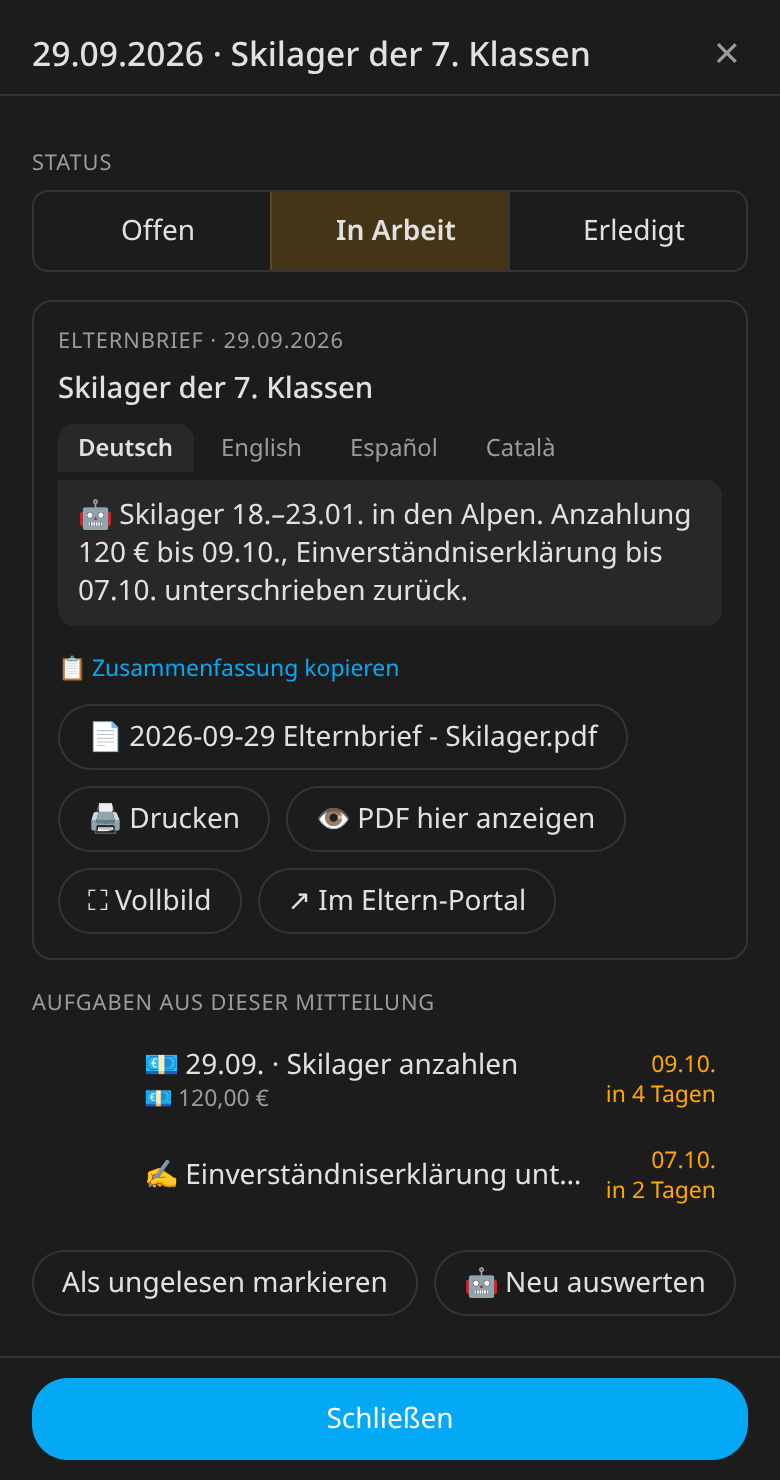
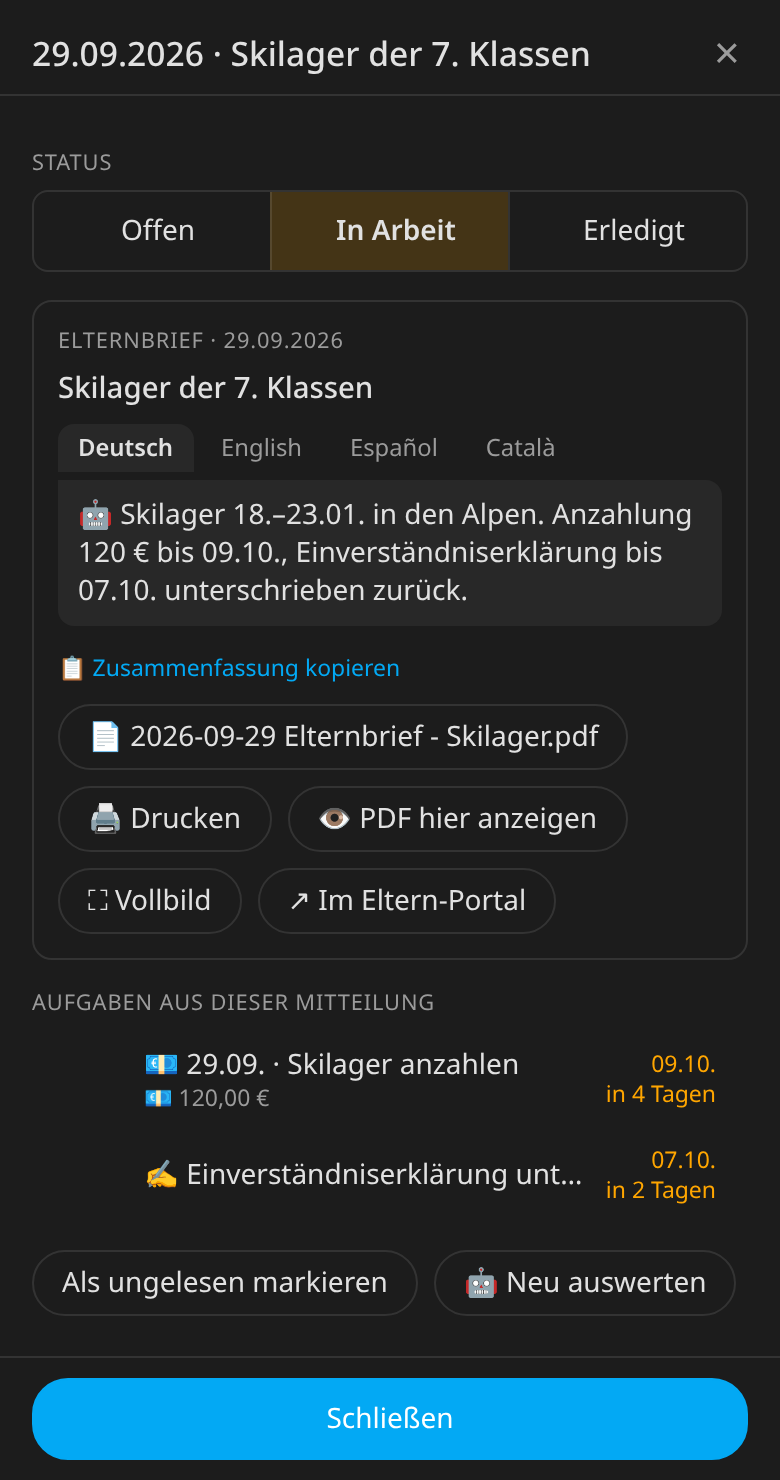
Refresh documentation and screenshots (v0.15.5) (#56)
* Refresh bilingual documentation and screenshots for v0.15.4

* Prepare v0.15.5 documentation release

diff --git a/docs/screenshots/demo.html b/docs/screenshots/demo.html
@@ -53,7 +53,7 @@
   });
 
   const TODAY = "2026-10-05"; // Montag
-  const T = [["08:00","08:45"],["08:50","09:35"],["09:55","10:40"],["10:45","11:30"],["11:45","12:30"],["12:35","13:20"],["14:00","14:45"],["14:50","15:35"]];
+  const T = [["08:00","08:45"],["08:45","09:30"],["09:50","10:35"],["10:35","11:20"],["11:45","12:30"],["12:30","13:15"],["13:20","14:05"],["14:05","14:50"]];
   const plan = (rows) => rows.flatMap(([wd, subjects]) => subjects.map((s, i) => s && ({
     weekday: wd, lesson: String(i + 1), start: T[i][0], end: T[i][1], subject: s[0], room: s[1], teacher: "AB", teacher_label: "AB (Anna Beispiel)",
   })).filter(Boolean));
@@ -62,10 +62,10 @@
     key: "anna", name: "Anna", classname: "7B", school: "Beispiel-Gymnasium", ampel: "gelb",
     tasks: [], items: [], unread: 0, overdue: 0,
     timetable: plan([
-      [1, [["D","204"],["D","204"],["M","204"],["B","BioS"],["Ev/K/Eth","112"],["E","204"]]],
-      [2, [["M","204"],["F","204"],["G","108"],["Ku","Ku1"],["Ku","Ku1"],["D","204"]]],
+      [1, [["D","204"],["D","204"],["M","204"],["B","BioS"],["Ev/K/Eth","112"],["E","204"],["G","108"]]],
+      [2, [["M","204"],["F","204"],["G","108"],["Ku","Ku1"],["Ku","Ku1"],["D","204"],["M","204"]]],
       [3, [["M","204"],["E","204"],["Ph","PhS"],["B","BioS"],["G","108"],["Sm/Sw","TH2"],["Sm/Sw","TH2"]]],
-      [4, [["F","204"],["E","204"],["Mu","Mu2"],["M","204"],["Geo","110"],["Ev/K/Eth","112"]]],
+      [4, [["F","204"],["E","204"],["Mu","Mu2"],["M","204"],["Geo","110"],["Ev/K/Eth","112"],["D","204"]]],
       [5, [["E","204"],["D","204"],["F","204"],["NuT_Inf","PC1"],["NuT_Inf","PC1"],["MInt","204"]]],
     ]),
     substitutions: {
@@ -87,9 +87,9 @@
         hover: "Unit 1 und 2: Simple past, Vokabeln S. 180–186, kurzer Brief schreiben." },
       { uid: "e2", date: "2026-10-09", category: "test", icon: "✏", subject: "Mathematik", title: "Stegreifaufgabe Mathematik (angekündigt)",
         hover: "Bruchrechnen: Kürzen, Erweitern, Addieren." },
-      { uid: "e3", date: "2026-10-07", time: "09:55", time_end: "10:40", category: "vertretung", icon: "🔁", title: "3. Std. Physik: Vertretung",
+      { uid: "e3", date: "2026-10-07", time: "09:50", time_end: "10:35", category: "vertretung", icon: "🔁", title: "3. Std. Physik: Vertretung",
         hover: "Vertretung bei Hr. Beispiel, Raum Ph2 – Aufgaben im Buch S. 42" },
-      { uid: "e4", date: "2026-10-07", time: "10:45", time_end: "11:30", category: "entfall", icon: "❌", title: "4. Std. Biologie entfällt", hover: "" },
+      { uid: "e4", date: "2026-10-07", time: "10:35", time_end: "11:20", category: "entfall", icon: "❌", title: "4. Std. Biologie entfällt", hover: "" },
       { uid: "e5", date: "2026-10-08", until: "2026-10-12", category: "frist_zahlung", icon: "💶", title: "Wandertag: 12,50 € überweisen", task_id: "t1",
         hover: "Busfahrt und Eintritt Tierpark. Überweisung an das Schulkonto, Verwendungszweck: Wandertag 7B Anna." },
       { uid: "e6", date: "2026-10-14", time: "08:00", category: "termin", icon: "📅", title: "Wandertag Tierpark", location: "Treffpunkt Haupteingang", item_uid: "i9",
@@ -123,6 +123,15 @@
   document.documentElement.dataset.theme = theme;
   if (q.get("w")) document.documentElement.style.setProperty("--w", q.get("w") + "px");
   const children = card === "termine" || card === "dashboard" || card === "tasks" ? [anna, max] : [anna];
+
+  // Confirmed appointments are in the grid; offers await a parent's answer.
+  anna.schedule_options = {messages: true, holidays: true};
+  anna.schedule = [{uid:"evening",kind:"message",title:"Elternabend der 7. Klassen",date:"2026-10-07",time:"18:30",time_end:"20:00",status:"confirmed",sources:[{title:"Einladung zum Elternabend",url:"https://example.org/elternabend"}],details:"Treffpunkt Aula. Vorstellung des Schuljahres und Zeit für Fragen."}];
+  anna.events.push({uid:"evening",date:"2026-10-07",time:"18:30",time_end:"20:00",category:"termin",icon:"📅",title:"Elternabend der 7. Klassen",hover:"Treffpunkt Aula. Vorstellung des Schuljahres und Zeit für Fragen."});
+  if (q.get("pending") === "1") anna.schedule.push(
+    {uid:"exchange-a",kind:"message",title:"Frankreich-Austausch: Besuch der Partnerschule",date:"2026-12-09",end:"2026-12-17",status:"proposed",sources:[{title:"Austausch-Angebot",url:"https://example.org/austausch"}]},
+    {uid:"exchange-b",kind:"message",title:"Frankreich-Austausch: Gegenbesuch in Frankreich",date:"2027-03-10",end:"2027-03-18",status:"proposed",sources:[{title:"Austausch-Angebot",url:"https://example.org/austausch"}]}
+  );
 
   // Aufgabe für den Detail-Dialog (card=task)
   const TASK = {
@@ -176,10 +185,20 @@
   // Gefälschtes hass-Objekt: liefert nur die Demo-Daten
   window.hass = {
     callWS: async (msg) => msg.type === "eltern_portal_schulmanager/data" ? { children: msg.child ? children.filter(c => c.key === msg.child) : children, legend: LEGEND, today: TODAY, errors: [],
-        last_update: `${TODAY}T08:15:00+02:00`, version: "0.14.5", repo_url: "https://github.com/FabusMingAI/ha-schulmanager" }
+        last_update: `${TODAY}T08:15:00+02:00`, version: window.DEMO_VERSION || "0.15.5", repo_url: "https://github.com/FabusMingAI/ha-schulmanager" }
       : msg.type === "eltern_portal_schulmanager/task" ? TASK : msg.type === "eltern_portal_schulmanager/item" ? ITEM
       : msg.type === "eltern_portal_schulmanager/event_links" ? { ics: "#ics", google: "#google" } : {},
-    callService: async () => {},
+    callService: async (domain, service, data) => {
+      const child = children.find(c => c.key === data.child);
+      if (service === "timetable_entry" && child) {
+        const entry = child.schedule?.find(e => e.uid === data.event_id);
+        if (entry) {
+          if (data.action === "confirm") entry.status = "confirmed";
+          else entry.hidden = data.action === "hide";
+        }
+      }
+      if (service === "timetable_options" && child) child.schedule_options = {messages:data.messages,holidays:data.holidays};
+    },
     user: { is_admin: true },
     connection: { subscribeMessage: () => Promise.resolve(() => {}) },
   };

diff --git a/custom_components/eltern_portal_schulmanager/www/eltern-portal-schulmanager-card.js b/custom_components/eltern_portal_schulmanager/www/eltern-portal-schulmanager-card.js
@@ -8,7 +8,7 @@
  *   view: week           # nur Stundenplan: mit Wochenansicht starten (Standard: Tag)
  */
 (() => {
-  const VERSION = "0.15.4";
+  const VERSION = "0.15.5";
   // Domain der Integration (bis 0.13: „schulmanager“, umbenannt wegen Namensgleichheit mit „Schulmanager Online“)
   const DOMAIN = "eltern_portal_schulmanager";
   const NAME = "Eltern Portal Manager Bavaria";

diff --git a/docs/screenshots/make_screenshots.py b/docs/screenshots/make_screenshots.py
@@ -12,7 +12,10 @@ from __future__ import annotations
 
 import argparse
 import base64
+import json
 import os
+from html import escape
+from tempfile import TemporaryDirectory
 from datetime import datetime, timezone
 from pathlib import Path
 
@@ -26,6 +29,7 @@ SHOTS = [
     # (Dateiname, Karte, Breite, Aktion)
     ("stundenplan.png", "stundenplan", 380, "day"),
     ("stundenplan-woche.png", "stundenplan", 700, "week"),
+    ("stundenplan-relevanz.png", "stundenplan", 540, "relevance"),
     ("termine.png", "termine", 400, "expand"),
     ("task-dialog.png", "task", 390, "dialog"),
     ("item-dialog.png", "item", 390, "dialog"),
@@ -57,17 +61,30 @@ def main() -> None:
     ap.add_argument("--chromium", default=os.environ.get("CHROMIUM_PATH"), help="Optional system Chromium executable")
     args = ap.parse_args()
     css = font_css(args.font_dir)
+    version = json.loads((HERE.parent.parent / "custom_components/eltern_portal_schulmanager/manifest.json").read_text())["version"]
 
-    with sync_playwright() as p:
-        browser = p.chromium.launch(executable_path=args.chromium, args=["--lang=de-DE"])
+    with TemporaryDirectory(prefix="schulmanager-screenshot-fonts-") as font_workdir, sync_playwright() as p:
+        browser_env = None
+        if args.font_dir and Path("/etc/fonts/fonts.conf").exists():
+            # Linux fallback must see the emoji font too, including small text
+            # in shadow roots. Keep its configuration/cache outside the repo.
+            config = Path(font_workdir) / "fonts.conf"
+            config.write_text(
+                '<fontconfig><include>/etc/fonts/fonts.conf</include>'
+                f'<dir>{escape(str(args.font_dir.resolve()))}</dir>'
+                f'<cachedir>{escape(font_workdir)}/cache</cachedir></fontconfig>'
+            )
+            browser_env = {**os.environ, "FONTCONFIG_FILE": str(config)}
+        browser = p.chromium.launch(executable_path=args.chromium, args=["--lang=de-DE"], env=browser_env)
         for name, card, width, action in SHOTS:
             if args.only and name not in args.only:
                 continue
             page = browser.new_page(locale="de-DE", timezone_id="Europe/Berlin", device_scale_factor=2, viewport={"width": width + 32, "height": 2200})
+            page.add_init_script(f"window.DEMO_VERSION = {json.dumps(version)}")
             errors = []
             page.on("pageerror", lambda error: errors.append(str(error)))
             page.clock.set_fixed_time(datetime(2026, 10, 5, 6, 15, tzinfo=timezone.utc))
-            page.goto(f"{(HERE / 'demo.html').as_uri()}?card={card}&w={width}&theme={args.theme}")
+            page.goto(f"{(HERE / 'demo.html').as_uri()}?card={card}&w={width}&theme={args.theme}{'&pending=1' if action == 'relevance' else ''}")
             if css:
                 page.add_style_tag(content=css)
             if action == "dialog":  # Dialog füllt das Fenster wie am Handy
@@ -76,6 +93,7 @@ def main() -> None:
                 page.locator("eltern-portal-schulmanager-header").get_by_role("button", name="Portale jetzt abrufen").wait_for()
                 page.locator("eltern-portal-schulmanager-stundenplan [data-lesson]").first.wait_for()
                 page.evaluate("document.fonts.ready")
+                page.wait_for_timeout(300)
                 assert not errors, errors
                 page.locator("#wrap").screenshot(path=str(OUT / name))
                 print("geschrieben:", OUT / name)
@@ -90,6 +108,8 @@ def main() -> None:
                 card_el.locator(".lesson-selected").wait_for()
             elif action == "week":
                 card_el.locator("[data-week]").click()
+            elif action == "relevance":
+                card_el.get_by_role("button", name="Ja, relevant", exact=True).first.wait_for()
             elif action == "expand":
                 card_el.locator('[data-ev="anna:e5"]').click()
                 card_el.get_by_role("link", name="Google Kalender").wait_for()
@@ -105,6 +125,13 @@ def main() -> None:
                 dialog.evaluate("el => { el.style.maxHeight='none'; el.style.height='auto'; el.style.overflow='visible'; }")
                 dialog.locator(".dh, .df").evaluate_all("els => els.forEach(el => el.style.position='static')")
                 dialog.screenshot(path=str(OUT / name))
+                print("geschrieben:", OUT / name)
+                page.close()
+                continue
+            if action == "relevance":
+                box = card_el.locator("ha-card").bounding_box()
+                bar = card_el.locator(".bar").first.bounding_box()
+                page.screenshot(path=str(OUT / name), clip={"x":box["x"],"y":box["y"],"width":box["width"],"height":bar["y"]-box["y"]})
                 print("geschrieben:", OUT / name)
                 page.close()
                 continue

diff --git a/README.de.md b/README.de.md
@@ -11,7 +11,7 @@
 
 ![Dashboard](docs/images/dashboard.png)
 
-> Die veröffentlichte Version und ihre Release Notes stehen auf der aktuellen Release-Seite. Diese README beschreibt den Entwicklungsstand einschließlich der für v0.15.0 vorbereiteten Stundenplan-Erweiterungen. Die Screenshots zeigen das mit v0.14.5 eingeführte Dashboard-Layout mit erfundenen Daten. [Aktuelles Release](https://github.com/FabusMingAI/ha-schulmanager/releases/latest)
+> Dokumentation und Screenshots sind auf **v0.15.5 (28. November 2026)** geprüft. Die Screenshots zeigen die enthaltenen Karten mit erfundenen Daten, ohne Verbindung zu einem echten Schulkonto. [Aktuelles Release](https://github.com/FabusMingAI/ha-schulmanager/releases/latest)
 
 > [!NOTE]
 > Eltern Portal Manager Bavaria ist ein privates Hobbyprojekt und steht in keiner Verbindung zum Anbieter des Eltern-Portals. Die Integration liest die Webseiten des Portals aus, weil es keine offizielle Schnittstelle gibt; Änderungen am Portal können einzelne Funktionen jederzeit stören. Nutzung auf eigene Verantwortung, ohne Gewähr. Fehler und Wünsche gerne als [Issue](https://github.com/FabusMingAI/ha-schulmanager/issues) – Antworten kommen, wenn Zeit ist.
@@ -27,11 +27,13 @@
 **Korrektur ab v0.15.1.** Archivquellen werden ausschließlich für den Stundenplan in einer eigenen Ablage verarbeitet. Der Nachtrag verändert vorhandene Mitteilungen, Aufgaben, Lesestatus und Kommentare nicht. Eindeutig zuordenbare historische Fehlimporte aus v0.15.0 werden mit ihren unberührten erzeugten offenen Aufgaben reversibel aus dem Postfach genommen. Die Originale bleiben gesichert, Benutzerkommentare und erledigte Aufgaben bleiben erhalten. Zusätzliche Termine stehen im Wochenraster an ihrer Uhrzeit. Ab v0.15.2 zeigen kompakte Termine ein Symbol und höchstens zwei Titelzeilen; längere Titel werden mit Auslassungspunkten abgeschnitten. Ein Klick öffnet den betreffenden Tag mit vollständigen Details und Bearbeitung.
 
 
-Die Stundenplankarte zeigt Termine aus Mitteilungen und Anhängen in der Tages- und Wochenansicht mit Quellenangabe. Eindeutig belegte Termine werden übernommen. Unsichere Angaben und Wahlangebote erscheinen als Vorschläge mit **Übernehmen**. Ohne KI werden ausdrücklich datierte Veranstaltungen als Vorschläge erkannt. Wöchentliche Kurse benötigen einen belegten Beginn und ein Ende und pausieren in den hinterlegten Ferien.
+Die Stundenplankarte zeigt Termine aus Mitteilungen und Anhängen in der Tages- und Wochenansicht mit Quellenangabe. Eindeutig belegte Termine werden übernommen. Unsichere Angaben und Wahlangebote erscheinen unter **Relevanz bestätigen** außerhalb des Stundenrasters. Mit **Ja, relevant** wird ein Angebot in Stundenplan und Kalender aufgenommen; **Nein, nicht relevant** blendet es aus. Austausch- und Sprachenfahrt-Angebote benötigen diese Entscheidung auch bei eindeutigem Datum: Ein Klassenbrief belegt keine persönliche Teilnahme. Die Antworten bleiben nach Neustarts und erneuter Archivprüfung erhalten. Ohne KI werden ausdrücklich datierte Veranstaltungen als Vorschläge erkannt. Wöchentliche Kurse benötigen einen belegten Beginn und ein Ende und pausieren in den hinterlegten Ferien.
+
+<p align="left"><img src="docs/images/stundenplan-relevanz.png" width="540" alt="Relevanz-Abfrage für ein optionales Austausch-Angebot mit den Buttons Ja, relevant und Nein, nicht relevant"></p>
 
 Beim ersten Start nach dem Update wird das gesamte verfügbare Portalarchiv unabhängig vom normalen Abrufzeitraum geladen. Die Terminprüfung läuft im Hintergrund und setzt nach einem Neustart fort. Der Nachtrag erzeugt keine alten Aufgaben oder Benachrichtigungen und erhält den Lesestatus. Anschließend gilt wieder der normale Abrufzeitraum. Das Portal kann nur dort noch verfügbare Inhalte liefern.
 
-**Einträge verwalten** zeigt Vorschläge und entfernte Einträge. **Entfernen**, **Serie entfernen** und **Wiederherstellen** gelten je Kind und bleiben über Neustarts und erneute Prüfungen erhalten. Auch optionale Unterrichtseinträge lassen sich entfernen. Mitteilungstermine und Ferien lassen sich je Kind ausschalten. Tages- und Wochenwechsel machen vergangene Termine erreichbar. Zeitliche Überschneidungen werden angezeigt.
+**Einträge verwalten** zeigt entfernte Einträge und ältere Vorschläge. Anstehende Vorschläge erscheinen direkt über dem Stundenplan. **Wiederherstellen** legt einen abgelehnten Vorschlag erneut zur Relevanzprüfung vor. **Entfernen**, **Serie entfernen** und **Wiederherstellen** gelten je Kind und bleiben über Neustarts und erneute Prüfungen erhalten. Auch optionale Unterrichtseinträge lassen sich entfernen. Mitteilungstermine und Ferien lassen sich je Kind ausschalten. Tages- und Wochenwechsel machen vergangene Termine erreichbar. Zeitliche Überschneidungen werden angezeigt.
 
 Die bayerischen Ferien von Sommer 2024 bis Sommer 2030 sind offline anhand der amtlichen Ferienordnung hinterlegt. Regulärer Unterricht pausiert während eingeblendeter Ferien. Schulbezogene Abweichungen können durch Ausblenden angepasst werden. Außerhalb dieses Zeitraums ist ein Update erforderlich. [Amtliche Ferienordnung](https://www.gesetze-bayern.de/Content/Document/BayVV_2230_1_1_0_K_13479/true)
 
@@ -99,12 +101,12 @@ Zeigt pro Kind die Reiter **Aufgaben**, **Mitteilungen** und **Erledigt**.
 
 <p align="left"><sub>Die Screenshots zeigen erfundene Demo-Daten (`docs/screenshots/demo.html`, [Anleitung zum Neuerzeugen](docs/screenshots/README.md)).</sub></p>
 
-- Tagesansicht mit Uhrzeit und Raum, umschaltbar auf die **Woche**. Vormittags zeigt sie den heutigen Tag, nach Schulschluss und am Wochenende den nächsten Schultag. Mit `view: week` startet die Karte in der Wochenansicht; das Dashboard „Schule“ nutzt das für alle Stundenpläne.
+- Tagesansicht mit Uhrzeit und Raum, umschaltbar auf die **Woche**. Das Wochenraster zeigt Anfangs- und Endzeiten. Pausen erscheinen in beiden Ansichten als dezente grüne Zeilen mit Zeitraum und Minuten. Benachbarte Tage mit gleicher Pause teilen sich eine Zelle, auch bei einer Pause von Montag bis Donnerstag und früherem Unterrichtsende am Freitag. Termine in einer Pause behalten ihre eigene Tageszelle. Vormittags zeigt sie den heutigen Tag, nach Schulschluss und am Wochenende den nächsten Schultag. Mit `view: week` startet die Karte in der Wochenansicht; das Dashboard „Schule“ nutzt das für alle Stundenpläne.
 - **Wochen blättern:** Mit ‹ / › eine Woche zurück oder vor und mit **Heute** zur Ausgangswoche. Die Kopfzeile zeigt Kalenderwoche und Datum von Montag bis Freitag; am Wochenende ist die folgende Woche die Ausgangswoche. Die Legende der Wochenansicht lässt sich auf- und zuklappen.
 - Die Wochenansicht passt auch in schmale Karten (halbe Spalte, Handy), ohne dass man seitlich scrollen muss: Fächer werden dort abgekürzt („Mathe“, „Engl.“, „Reli/Eth“, „SA“ für Schulaufgabe).
 - Fächer stehen **ausgeschrieben** da („Biologie“ statt „B“, „Mathematik (Intensivierung)“ statt „MInt“, „Sport“ statt „Sm/Sw“). Das Original-Kürzel erscheint, wenn man mit der Maus darauf zeigt.
 - Änderungen aus dem Vertretungsplan sind farbig markiert: rot = entfällt, orange = Vertretung oder Raumänderung. Die Zahl an den Wochentagen zeigt, wie viele Änderungen anstehen.
-- Klick oder Tipp auf eine Stunde in der Wochenansicht öffnet ihr Datum und markiert die gewählte Stunde. Die Tagesansicht zeigt verfügbare reguläre Lehrkräfte, Vertretungslehrkräfte, Räume, Status und Hinweise; **Woche** führt zurück.
+- Klick oder Tipp auf eine Stunde in der Wochenansicht öffnet ihr Datum und markiert die gewählte Stunde. Die Tagesansicht zeigt verfügbare reguläre Lehrkräfte, Vertretungslehrkräfte, Räume, Status und Hinweise. Der beim Scrollen sichtbare Button **← Zur Wochenansicht** führt zur vorherigen Woche und Scrollposition zurück; der Tastaturfokus kehrt zur gewählten Stunde oder zum Termin zurück.
 - In der Tagesansicht zeigt Antippen eines Schulaufgaben-/Test-Kastens oder einer Vertretung **📅 In Kalender eintragen** / **Google Kalender**.
 - **Schulaufgaben und Tests** aus den Portal-Terminen sind hervorgehoben: 📝 / ✏ an den Wochentagen, ein Kasten über den Stunden des Tages und eine Markierung am passenden Fach (lila = Schulaufgabe, blau = Test). Was in den nächsten zwei Wochen ansteht, steht über dem Stundenplan.
 
@@ -119,7 +121,7 @@ Zeigt pro Kind die Reiter **Aufgaben**, **Mitteilungen** und **Erledigt**.
 ### Über HACS / Marketplace (empfohlen)
 
 1. Ab **Home Assistant 2026.11** **Einstellungen → Marketplace** öffnen; unter **2026.10 oder älter** **HACS** öffnen. Nach **Eltern Portal Manager Bavaria** suchen.
-2. Die Integration installieren und Home Assistant neu starten.
+2. Die Integration installieren. Marketplace öffnet direkt die Einrichtung. Bei HACS auf älteren Home-Assistant-Versionen zuerst neu starten und die Integration dann unter **Einstellungen → Geräte & Dienste** hinzufügen. Updates benötigen weiterhin einen Neustart.
 
 Die Integration ist im Standardkatalog enthalten; ein benutzerdefiniertes Repository ist nicht mehr nötig. Falls sie in HACS nicht erscheint, den Länderfilter prüfen: Dieses Repository ist für **Deutschland (DE)** gelistet.
 
@@ -133,7 +135,7 @@ Das Quellcode-Archiv des [neuesten Releases](https://github.com/FabusMingAI/ha-s
 
 ## Releases und Updates
 
-Die veröffentlichte Version und ihre Release Notes stehen auf der aktuellen Release-Seite. Die für v0.15.0 vorbereiteten Änderungen sind im Changelog dokumentiert. [Aktuelles Release](https://github.com/FabusMingAI/ha-schulmanager/releases/latest), [Changelog](CHANGELOG.md)
+**v0.15.5** aktualisiert Dokumentation und Screenshots. **v0.15.4** ergänzt die Relevanz-Abfrage für Mitteilungstermine und verbindet gleiche Pausen benachbarter Schultage. Die veröffentlichte Version steht auf der Release-Seite; Versionshistorie und noch unveröffentlichte Änderungen stehen im Changelog. [Aktuelles Release](https://github.com/FabusMingAI/ha-schulmanager/releases/latest), [Changelog](CHANGELOG.md)
 
 Seit v0.14.8 enthält die Integration die technische Bronze-/Silber-Selbsteinschätzung mit Verbindungsprüfung bei der Einrichtung, erneuter Anmeldung, Zugangsdatenänderung, Verfügbarkeitsanzeige, erneut zustellbaren Erinnerungen, datensparsamer Diagnose und verbindlicher Testabdeckung. Die Integration hat weiterhin die Einstufung Custom.
 

diff --git a/README.md b/README.md
@@ -13,7 +13,7 @@ It signs in to the portal itself, stores parent letters and attachments per chil
 
 ![Dashboard](docs/images/dashboard.png)
 
-> The published version and its release notes are available on the latest release page. This README describes the development branch, including the timetable additions prepared for v0.15.0. Screenshots use fictional data and show the dashboard layout introduced in v0.14.5. [Latest release](https://github.com/FabusMingAI/ha-schulmanager/releases/latest)
+> Documentation and screenshots checked against **v0.15.5 (28 November 2026)**. The screenshots render the included cards with fictional data; they do not show a live school account. [Latest release](https://github.com/FabusMingAI/ha-schulmanager/releases/latest)
 
 > [!NOTE]
 > Eltern Portal Manager Bavaria is a private hobby project and is not affiliated with the provider of Eltern-Portal. It reads the portal's web pages because there is no official API, so changes to the portal can break single features at any time. Use at your own risk, without warranty. Bug reports and ideas are welcome as [issues](https://github.com/FabusMingAI/ha-schulmanager/issues) – answers come when time allows.
@@ -29,11 +29,13 @@ It signs in to the portal itself, stores parent letters and attachments per chil
 **Correction from v0.15.1.** Archive sources use a separate store exclusively for timetable extraction. Backfilling preserves existing messages, tasks, read state and comments. Identifiable historical imports from v0.15.0 and their untouched generated open tasks are reversibly quarantined. Original records are retained, along with user comments and completed tasks. Additional appointments appear at their time inside the week grid. From v0.15.2, compact appointments show an icon and at most two title lines, with longer titles truncated with an ellipsis. Selecting it opens the corresponding day with full details and editing actions.
 
 
-The timetable card shows appointments from messages and attachments in day and week views with source links. Clearly evidenced appointments are included automatically. Uncertain dates and elective offers appear as proposals requiring **Übernehmen**. Without AI, explicitly dated events become proposals. Weekly courses require an evidenced start and end and pause during the bundled holidays.
+The timetable card shows appointments from messages and attachments in day and week views with source links. Clearly evidenced appointments are included automatically. Uncertain dates and elective offers appear under **Relevanz bestätigen**, outside the timetable grid. Choose **Ja, relevant** to include an offer in the timetable and calendar, or **Nein, nicht relevant** to hide it. Exchange and language trip invitations require this answer even when their dates are certain: a class letter does not establish personal participation. These answers survive restarts and rescans. Without AI, explicitly dated events become proposals. Weekly courses require an evidenced start and end and pause during the bundled holidays.
+
+<p align="left"><img src="docs/images/stundenplan-relevanz.png" width="540" alt="Relevance confirmation for an optional exchange offer, with Ja, relevant and Nein, nicht relevant buttons"></p>
 
 The first start after upgrading fetches the entire available portal archive independently of the normal lookback setting. Appointment extraction runs in the background and resumes after restarts. Backfilling preserves tasks and read state and does not send old notifications. Normal lookback resumes afterwards. Only content still available from the portal can be fetched.
 
-**Einträge verwalten** lists proposals and hidden entries. **Entfernen**, **Serie entfernen** and **Wiederherstellen** apply per child and survive restarts and rescans. Optional timetable lessons can also be hidden. Message appointments and holidays can be switched off per child. Day and week navigation provide access to past dates. Time overlaps are indicated.
+**Einträge verwalten** lists hidden entries and older proposals. Upcoming proposals are shown directly above the timetable. **Wiederherstellen** brings a declined proposal back for another relevance check. **Entfernen**, **Serie entfernen** and **Wiederherstellen** apply per child and survive restarts and rescans. Optional timetable lessons can also be hidden. Message appointments and holidays can be switched off per child. Day and week navigation provide access to past dates. Time overlaps are indicated.
 
 Bavarian school holidays from summer 2024 through summer 2030 are bundled offline from the official holiday order. Regular lessons pause during displayed holidays. School-specific exceptions can be accommodated by hiding entries. Dates outside this range require an update. [Official holiday order](https://www.gesetze-bayern.de/Content/Document/BayVV_2230_1_1_0_K_13479/true)
 
@@ -103,7 +105,7 @@ Shows the tabs **Aufgaben** (tasks), **Mitteilungen** (messages) and **Erledigt*
 
 <p align="left"><sub>Screenshots show made-up demo data (`docs/screenshots/demo.html`, [regeneration instructions](docs/screenshots/README.md)).</sub></p>
 
-- Day view with times and rooms, switchable to the whole **week**. The week grid shows both start and end times. Gaps between lessons appear as subtle green break rows with their time range and duration in minutes, in both day and week views. In the morning it shows today; after the last lesson and at weekends it shows the next school day. With `view: week` the card starts in the week view; the "Schule" dashboard uses this for all timetables.
+- Day view with times and rooms, switchable to the whole **week**. The week grid shows both start and end times. Gaps between lessons appear as subtle green break rows with their time range and duration in minutes, in both day and week views. Adjacent days with the same break share one cell, including a Monday–Thursday break when Friday lessons end earlier. Appointments during a break retain their own day cell. In the morning it shows today; after the last lesson and at weekends it shows the next school day. With `view: week` the card starts in the week view; the "Schule" dashboard uses this for all timetables.
 - **Week navigation:** use ‹ / › to go back or forward one week and **Heute** to return to the starting week. The heading shows the calendar week and Monday–Friday dates; at weekends the starting week is the following week. The week-view legend can be expanded or collapsed.
 - The week view fits narrow cards (e.g. half a column or a phone) without horizontal scrolling: subjects are shortened there ("Mathe", "Engl.", "Reli/Eth", "SA" for exam).
 - Subjects are **written out** ("Biologie" instead of "B", "Mathematik (Intensivierung)" instead of "MInt", "Sport" instead of "Sm/Sw"); hover a subject to see the original abbreviation.
@@ -123,7 +125,7 @@ Shows the tabs **Aufgaben** (tasks), **Mitteilungen** (messages) and **Erledigt*
 ### HACS / Marketplace (recommended)
 
 1. On **Home Assistant 2026.11 or newer**, open **Settings → Marketplace**. On **2026.10 or older**, open **HACS**. Search for **Eltern Portal Manager Bavaria**.
-2. Install the integration and restart Home Assistant.
+2. Install the integration. Marketplace opens its setup flow directly; with HACS on older Home Assistant versions, restart and then add the integration under **Settings → Devices & services**. Updates still require a restart.
 
 The integration is included in the default catalog; adding a custom repository is no longer necessary. In HACS, check the country filter if the integration does not appear: this repository is listed for **Germany (DE)**.
 
@@ -137,7 +139,7 @@ Download the source archive of the [latest release](https://github.com/FabusMing
 
 ## Releases and updates
 
-See the latest release page for the published version and release notes. Changes prepared for v0.15.0 are documented in the changelog. [Latest release](https://github.com/FabusMingAI/ha-schulmanager/releases/latest), [Changelog](CHANGELOG.md)
+**v0.15.5** refreshes documentation and screenshots. **v0.15.4** adds relevance confirmation for message appointments and merges identical breaks across adjacent school days. See the latest release page for the published version and the changelog for release history and unreleased changes. [Latest release](https://github.com/FabusMingAI/ha-schulmanager/releases/latest), [Changelog](CHANGELOG.md)
 
 Since v0.14.8, the integration includes the Bronze/Silver technical self-assessment with live setup validation, reauthentication, credential changes, availability reporting, retryable reminders, privacy-preserving diagnostics and enforced test coverage. The integration retains its Custom classification.
 

diff --git a/docs/QUALITY_SCALE.md b/docs/QUALITY_SCALE.md
@@ -20,7 +20,7 @@ CI runs all existing and new tests, saves coverage.json and coverage.xml as the 
 
 ## Verification and remaining milestones
 
-Verified on 8 November 2026: **155 tests pass** against both the Home Assistant 2026.2.3 CI dependency and the isolated Home Assistant 2026.10.1 container. Overall Python line coverage is **98.03%**; the lowest module is **96.17%**. Coverage reports contain all integration Python modules without omissions or runtime-code exclusions. Each module exceeds 95%; the configuration flow and diagnostics have 100%. The [PR checks](https://github.com/FabusMingAI/ha-schulmanager/pull/43/checks) contain the exact test counts and per-module reports for each commit.
+Verification refreshed for **v0.15.4 on 28 November 2026**: **215 tests pass** against both the Home Assistant 2026.2.3 / Python 3.13 CI dependency and the isolated Home Assistant 2026.10.1 / Python 3.14 container. CI Python line coverage is **98.01%**; the lowest module is **96.34%**. Every module exceeds 95%; configuration flow and diagnostics have 100%. The only two excluded lines are static `TYPE_CHECKING` imports, allowed by the coverage gate. The [v0.15.4 CI run](https://github.com/FabusMingAI/ha-schulmanager/actions/runs/46122198504) contains the test results and per-module reports in its `integration-coverage` artifact. Desktop/mobile browser suites pass for tasks, notifications, schedules, navigation and breaks, including relevance answers and partially shared break rows.
 
 The tests exercise cached restarts, wrong and updated credentials, multi-school isolation, recovery of optional sections, unknown identifiers, empty message IDs, atomic to-do deletion, failed notifications, reminders that remain retryable, malformed AI/portal responses, migration failures, and preservation of downloaded files. Children with equal first names receive distinct keys; known school/student identities retain their keys when names change and after restart.
 

diff --git a/docs/screenshots/README.md b/docs/screenshots/README.md
@@ -20,7 +20,9 @@ or set `CHROMIUM_PATH`. Ensure an emoji font such as Noto Color Emoji is
 installed to avoid missing symbols. Alternatively, pass `--font-dir /path/to/fonts`
 containing `NotoColorEmoji.ttf` and, optionally, `roboto-latin-400-normal.woff2`
 and `roboto-latin-500-normal.woff2`. These fonts are embedded only while rendering;
-they are not committed. `--theme light` selects the light theme; dark is the default.
+they are not committed. On Linux, the generator also creates a temporary
+Fontconfig configuration/cache so small emoji in shadow-root text use the same
+font. It leaves the system font configuration unchanged. `--theme light` selects the light theme; dark is the default.
 
 The script regenerates every screenshot referenced by both READMEs, waits for
 card data and fonts, and fails on JavaScript page errors. Review each image before
@@ -30,6 +32,14 @@ committing. The isolated demo is also available interactively, for example:
 - `demo.html?card=stundenplan&view=week&theme=dark`
 - `demo.html?card=item&item=blackboard&theme=dark`
 
-The demo's version should track the integration manifest when preparing releases.
+The generator reads the displayed version from the integration manifest. The
+interactive demo has a fallback version that should track releases.
 Screenshots describe the checked-out code; the READMEs distinguish unreleased
 features from the published release.
+
+The v0.15.5 examples show 20/25-minute shared breaks and a 5-minute break
+shared by Monday–Thursday, an evening appointment in the week grid, and a
+separate relevance-confirmation image (`stundenplan-relevanz.png`). Use
+`demo.html?card=stundenplan&pending=1&theme=dark` to try the yes/no controls
+with fictional offers. The relevance image crops the card above the day buttons;
+it does not alter or simulate the runtime card layout.

diff --git a/docs/WEBUNTIS_TEST_ENVIRONMENT.md b/docs/WEBUNTIS_TEST_ENVIRONMENT.md
@@ -135,11 +135,13 @@ as a routine shutdown action. Logs and `.env` stay outside Git.
 
 ## Verification status
 
-For v0.14.9 on 11 November 2026, all **191 tests** passed on the isolated
-HA 2026.10.1 / Python 3.14 image and on GitHub CI / Python 3.13. Python line
-coverage was **97.92%**, with every module above 95% and config flow,
-diagnostics and the WebUntis parser at 100%. Desktop/mobile browser checks
-also cover timed WebUntis changes without a portal timetable.
+For **v0.15.4 on 28 November 2026**, all **215 tests** passed on the isolated
+HA 2026.10.1 / Python 3.14 image and on GitHub CI / Python 3.13 (HA 2026.2.3).
+CI Python line coverage is **98.01%**, with every module above 95% and config
+flow, diagnostics and the WebUntis parser at 100%. The
+[CI run and coverage artifact](https://github.com/FabusMingAI/ha-schulmanager/actions/runs/46122198504)
+record this release's results. Desktop/mobile browser checks also cover timed
+WebUntis changes without a portal timetable.
 
 The suite exercises optional configuration, real HA calendar services,
 per-child assignments, combined events, source failures and recovery, removal

diff --git a/tests/browser/README.md b/tests/browser/README.md
@@ -15,3 +15,8 @@ Outage checks retain timetable/agenda content while showing connection, partial-
 Timetable navigation checks cover start/end times and missing end times, returning from lessons and appointments in a different week, restored keyboard focus and scroll position, sticky return-button visibility, and no horizontal overflow at desktop/mobile widths. Scroll restoration is checked for both document scrolling and a simulated Home Assistant dashboard scroll container inside a shadow root.
 
 Break checks cover 5/15/45-minute gaps, missing/invalid/overlapping/adjacent times, holidays, hidden lessons, appointments during breaks and after school, theme adaptation, and no horizontal overflow on desktop and mobile.
+
+Schedule checks cover relevance confirmation: unconfirmed offers stay outside the
+week grid, yes/no answers call the appropriate service, and hiding one offer does
+not confirm another. Break checks also cover Monday–Thursday shared cells when
+Friday school ends earlier and appointments splitting a shared range.

diff --git a/CHANGELOG.md b/CHANGELOG.md
@@ -2,6 +2,11 @@
 
 ## Unreleased
 
+## 0.15.5 – 2026-11-28
+
+- Refresh English/German documentation and fictional screenshots for v0.15.5, including relevance confirmation, shared breaks, return navigation and current verification results. Clarify Marketplace first installation versus updates.
+- Deutsche und englische Dokumentation sowie Demo-Screenshots auf v0.15.5 aktualisieren: Relevanz-Abfrage, verbundene Pausen, Rücknavigation und aktuelle Prüfergebnisse. Marketplace-Erstinstallation und Updates unterscheiden.
+
 ## 0.15.4 – 2026-11-28
 
 - Ask parents whether proposed message appointments are relevant before putting them in the timetable. Exchange and language trip invitations, including already stored entries, require an explicit answer. Keep confirmations and dismissals across rescans and restarts.

diff --git a/CONTRIBUTING.md b/CONTRIBUTING.md
@@ -74,6 +74,9 @@ Prepare a separate, focused release change:
 1. Align the version in the integration manifest, dashboard card `VERSION` and
    bridge fixture manifest.
 2. Move release notes from `Unreleased` to a dated version section in the changelog.
+   Check both READMEs for changed controls and behavior. For visual changes,
+   update the fictional demo and regenerate/review the screenshots; the generator
+   reads its displayed version from the manifest.
 3. Merge after all checks pass, then run **Actions → Release → Run workflow** on
    `main`. It verifies the version and changelog, reruns tests, and publishes the
    tag and GitHub release.
